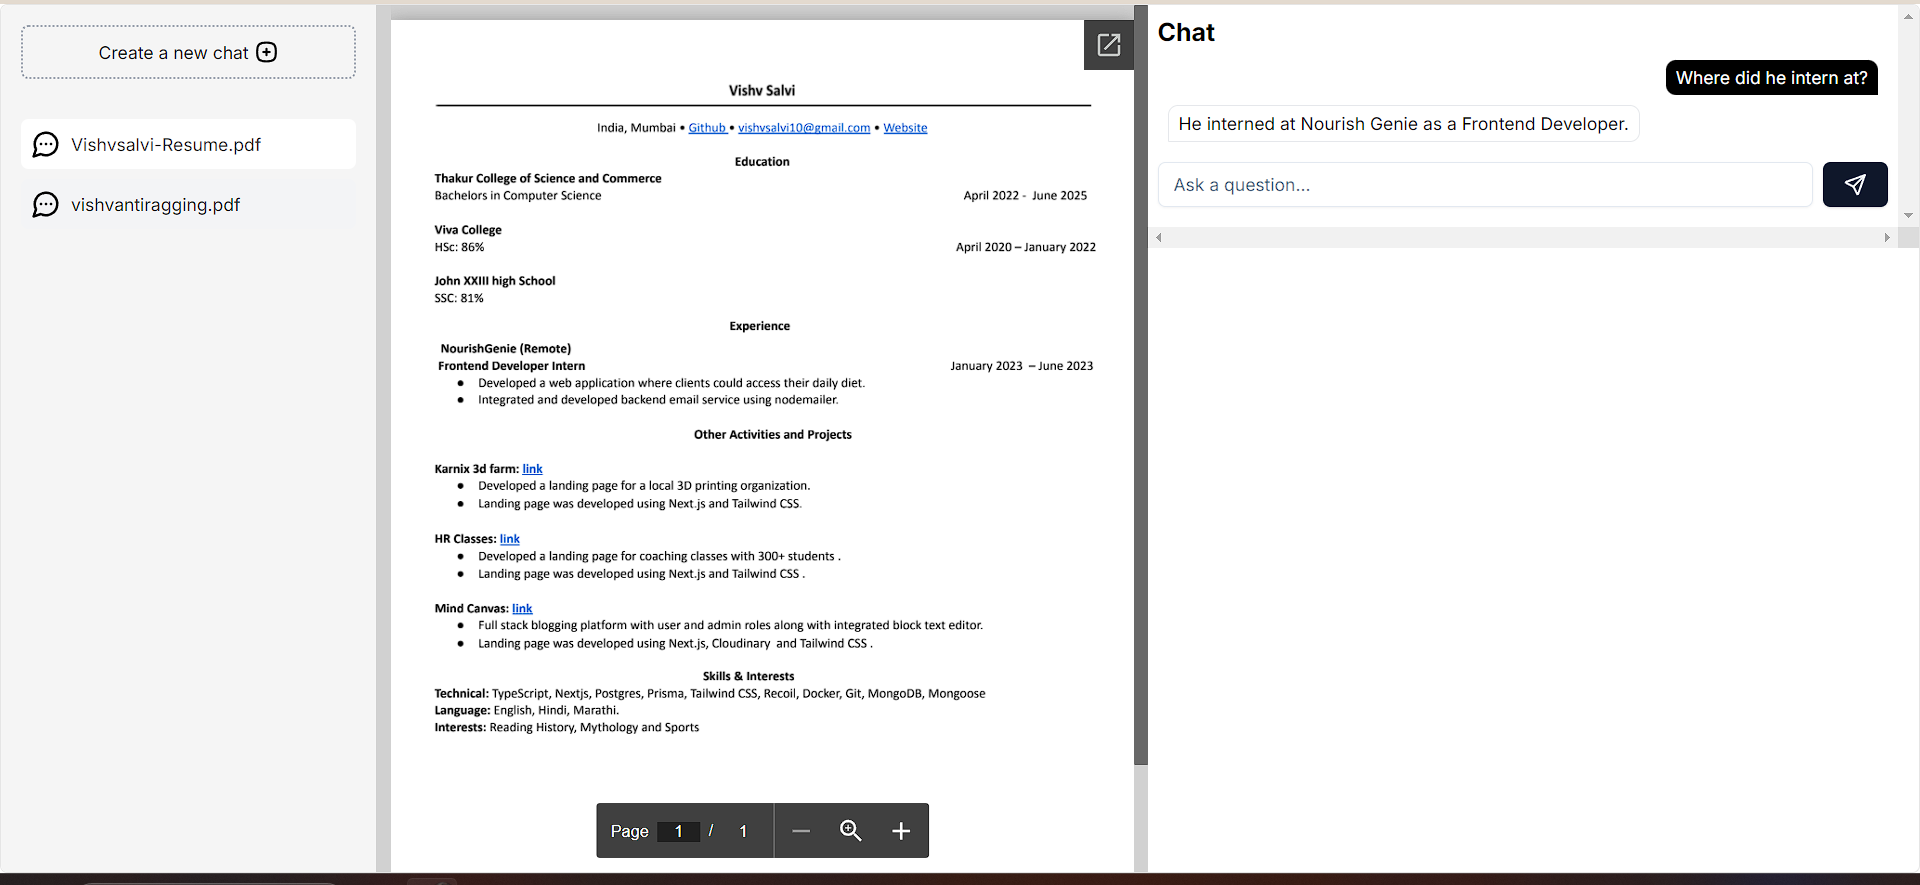
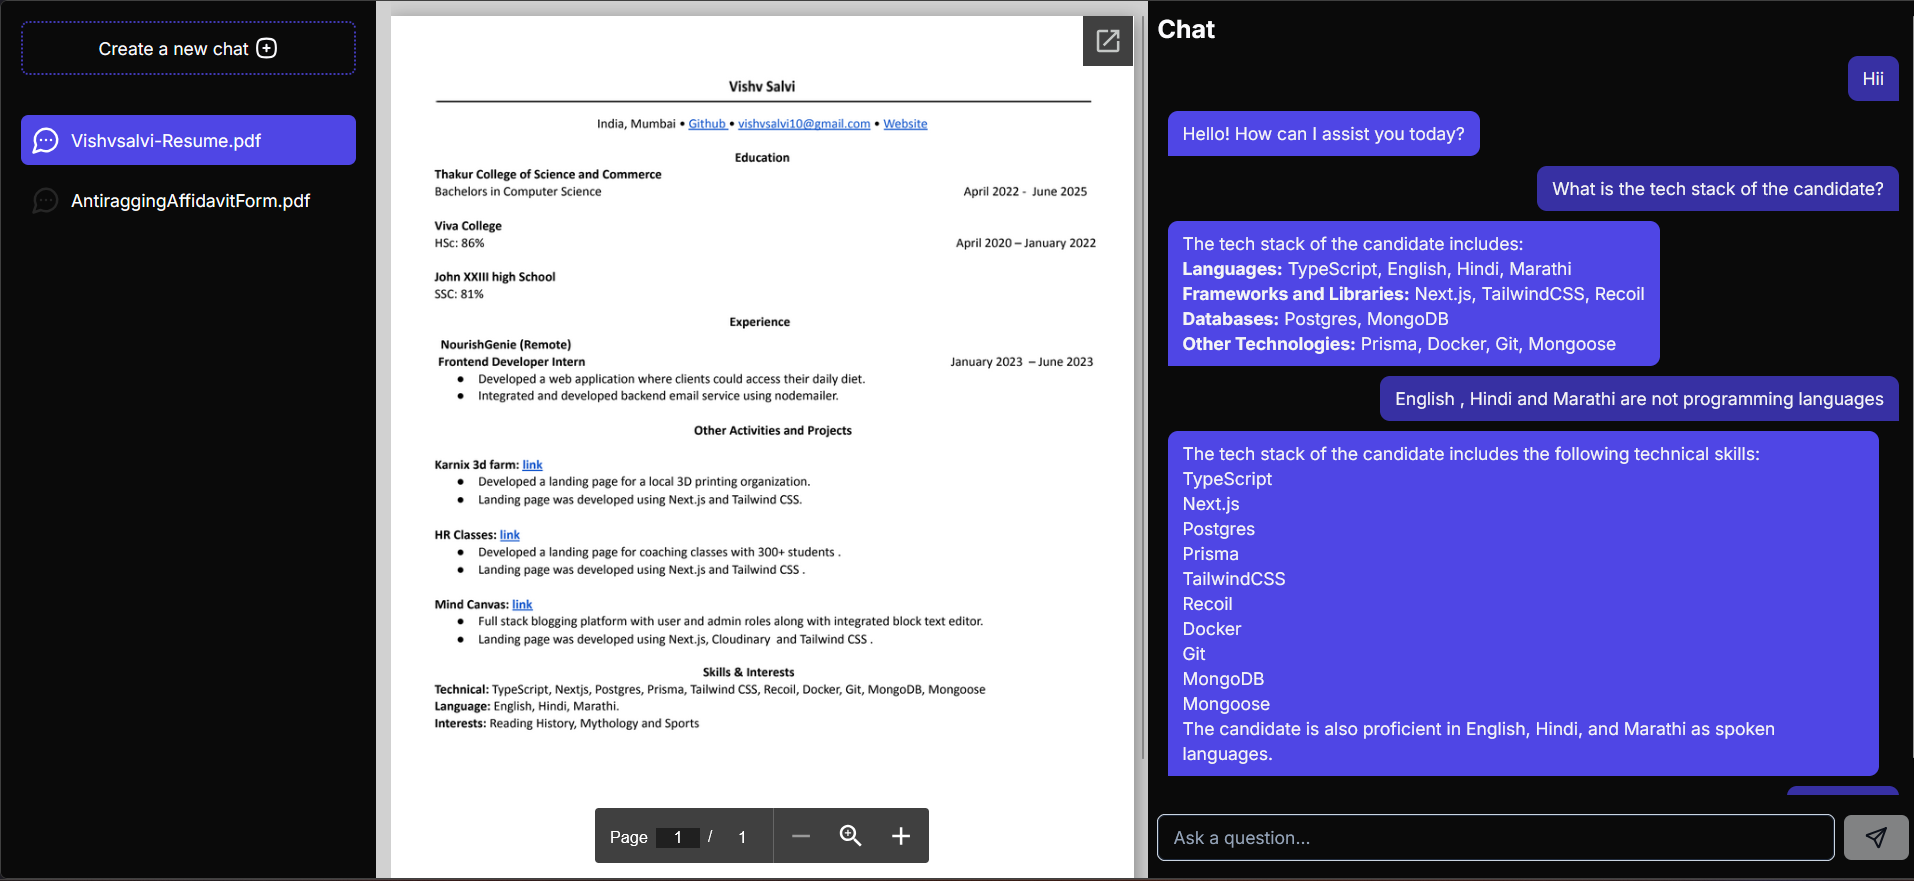
Adding resizable and fixing chat btn

diff --git a/src/app/page.tsx b/src/app/page.tsx
@@ -1,21 +1,26 @@
 import { UserButton } from "@clerk/nextjs";
 import { auth } from '@clerk/nextjs/server'
-import { Button } from "@/components/ui/button";
 import Link from "next/link";
 import FileUpload from "@/components/FileUpload";
 import {chats} from '@/lib/db/schema'
 import { db } from '@/lib/db';
 import { eq } from 'drizzle-orm';
 import { BackgroundLines } from "@/components/ui/background-lines";
+import { redirect } from 'next/navigation'
+import { navigateToChat } from '@/app/actions/handleRedirect'
 
 export default async function Home() {
   const { userId } = auth();
-
+  
   
   const getUserChatId = async () => {
     if(userId){
       const userChat = await db.select().from(chats).where(eq(chats.userId, userId));
-      return userChat[0].id
+      if(userChat.length){
+        redirect(`/chat/${userChat[0].id}`);
+      }else{
+        return alert("No chat found!")
+      }
     }
     return null;
   }
@@ -33,11 +38,17 @@ export default async function Home() {
                 </h1>
                 <UserButton afterSwitchSessionUrl="/" />
               </div>
-              <p className="max-w-[40rem] dark:text-gray-400 text-slate-800 my-4 text-sm sm:text-base">
+              <p className="max-w-[40rem] dark:text-gray-400 text-slate-800 mb-4 text-sm sm:text-base">
                 Transform your PDF documents into interactive chat experiences. Documind allows you to ask questions, get instant answers, and explore content like never before.
               </p>
               <div className="flex mb-4">
-                {userId && <Link href={`chat/${getUserChatId+""}`}><button className="px-4 py-2 rounded-md text-sm bg-indigo-600" >Go to chats</button></Link>}
+              {userId && (
+                  <form action={navigateToChat}>
+                    <button type="submit" className="px-4 py-2 rounded-md text-sm bg-indigo-600">
+                      Go to chats
+                    </button>
+                  </form>
+                )}
               </div>
               <div className="w-full flex justify-center">
                 {userId ? (
@@ -48,7 +59,7 @@ export default async function Home() {
                       <Link className="whitespace-nowrap" href="/sign-in">
                     <button className="relative inline-flex h-12 overflow-hidden rounded-md p-[1px] focus:outline-none focus:ring-2 focus:ring-slate-400 focus:ring-offset-2 focus:ring-offset-slate-50">
                       <span className="absolute inset-[-1000%] animate-[spin_2s_linear_infinite] bg-[conic-gradient(from_90deg_at_50%_50%,#E2CBFF_0%,#393BB2_50%,#E2CBFF_100%)]" />
-                      <span className="inline-flex h-full w-full cursor-pointer items-center justify-center rounded-md bg-slate-950 px-3 py-1 text-sm font-medium text-white backdrop-blur-3xl">
+                      <span className="inline-flex h-full w-full cursor-pointer items-center justify-center rounded-md bg-slate-950 px-3 py-1 text-xs md:text-sm font-medium text-white backdrop-blur-3xl">
                       Login to get started 🔑
                       </span>
                     </button>

diff --git a/src/app/chat/[chatId]/page.tsx b/src/app/chat/[chatId]/page.tsx
@@ -7,6 +7,11 @@ import { eq } from 'drizzle-orm';
 import { ChatSideBar } from "@/components/ChatSideBar";
 import { cn } from "@/lib/utils";
 import ChatComponent from '@/components/ChatComponent';
+import {
+  ResizableHandle,
+  ResizablePanel,
+  ResizablePanelGroup,
+} from "@/components/ui/resizable"
 
 type Props = {
   params: {
@@ -20,36 +25,48 @@ export default async function ChatPage({ params: { chatId } }: Props) {
   if (!userId) {
     return redirect("/sign-in");
   }
-  
+
   const userChat = await db.select().from(chats).where(eq(chats.userId, userId))
-  
+
   if (!userChat) {
     return redirect("/");
   }
 
- 
+
   const currentChat = userChat.find((chat) => chat.id === parseInt(chatId));
 
   return (
     <div
       className={cn(
-        "rounded-md flex flex-col md:flex-row dark:bg-neutral-950 w-full flex-1 mx-auto border border-neutral-200 dark:border-neutral-700 overflow-hidden",
+        "rounded-md flex flex-col md:flex-row dark:bg-neutral-950 w-full flex-1 mx-auto border border-neutral-200 dark:border-neutral-700 overflow-y-scroll",
         "h-screen"
       )}
     >
       <ChatSideBar chats={userChat} chatId={parseInt(chatId)} />
       <div className="flex-1 flex">
         {/* PDF viewer */}
-        <div className="w-1/2 h-full">
-          <iframe 
-            src={`https://docs.google.com/gview?url=${currentChat?.pdfUrl}&embedded=true`}
-            className="w-full h-full border-none"
-          />
-        </div>
-        {/* Space for chat or other content */}
-        <div className="w-1/2 h-full">
-        <ChatComponent chatId={parseInt(chatId)} />
-        </div>
+        <ResizablePanelGroup
+          direction="horizontal"
+          className="min-h-[200px] rounded-lg"
+        >
+          <ResizablePanel defaultSize={25}>
+
+            <div className="w-full h-full">
+              <iframe
+                src={`https://docs.google.com/gview?url=${currentChat?.pdfUrl}&embedded=true`}
+                className="w-full h-full border-none"
+              />
+            </div>
+          </ResizablePanel>
+          <ResizableHandle withHandle />
+          <ResizablePanel defaultSize={75}>
+            {/* Space for chat or other content */}
+            <div className="w-full h-full">
+              <ChatComponent chatId={parseInt(chatId)} />
+            </div>
+          </ResizablePanel>
+
+        </ResizablePanelGroup>
       </div>
     </div>
   )

diff --git a/src/components/ui/resizable.tsx b/src/components/ui/resizable.tsx
@@ -1,0 +1,45 @@
+"use client"
+
+import { DragHandleDots2Icon } from "@radix-ui/react-icons"
+import * as ResizablePrimitive from "react-resizable-panels"
+
+import { cn } from "@/lib/utils"
+
+const ResizablePanelGroup = ({
+  className,
+  ...props
+}: React.ComponentProps<typeof ResizablePrimitive.PanelGroup>) => (
+  <ResizablePrimitive.PanelGroup
+    className={cn(
+      "flex h-full w-full data-[panel-group-direction=vertical]:flex-col",
+      className
+    )}
+    {...props}
+  />
+)
+
+const ResizablePanel = ResizablePrimitive.Panel
+
+const ResizableHandle = ({
+  withHandle,
+  className,
+  ...props
+}: React.ComponentProps<typeof ResizablePrimitive.PanelResizeHandle> & {
+  withHandle?: boolean
+}) => (
+  <ResizablePrimitive.PanelResizeHandle
+    className={cn(
+      "relative flex w-px items-center justify-center bg-neutral-200 after:absolute after:inset-y-0 after:left-1/2 after:w-1 after:-translate-x-1/2 focus-visible:outline-none focus-visible:ring-1 focus-visible:ring-neutral-950 focus-visible:ring-offset-1 data-[panel-group-direction=vertical]:h-px data-[panel-group-direction=vertical]:w-full data-[panel-group-direction=vertical]:after:left-0 data-[panel-group-direction=vertical]:after:h-1 data-[panel-group-direction=vertical]:after:w-full data-[panel-group-direction=vertical]:after:-translate-y-1/2 data-[panel-group-direction=vertical]:after:translate-x-0 [&[data-panel-group-direction=vertical]>div]:rotate-90 dark:bg-neutral-800 dark:focus-visible:ring-neutral-300",
+      className
+    )}
+    {...props}
+  >
+    {withHandle && (
+      <div className="z-10 flex h-6 w-8 items-center justify-center rounded-sm border border-neutral-200 bg-neutral-200 dark:border-neutral-800 dark:bg-neutral-800">
+        <DragHandleDots2Icon className="h-3.5 w-3.5" />
+      </div>
+    )}
+  </ResizablePrimitive.PanelResizeHandle>
+)
+
+export { ResizablePanelGroup, ResizablePanel, ResizableHandle }

diff --git a/src/components/ChatComponent.tsx b/src/components/ChatComponent.tsx
@@ -8,12 +8,12 @@ import MessageList from './MessageList'
 import { useQuery } from '@tanstack/react-query'
 import { Message } from 'ai/react'
 import axios from 'axios'
+
 type Props = {
     chatId: number
 }
 
 const ChatComponent = ({chatId}: Props) => {
-
     const {data} = useQuery({
         queryKey: ['chat', chatId],
         queryFn: async () => {
@@ -27,19 +27,26 @@ const ChatComponent = ({chatId}: Props) => {
     body: {chatId},
     initialMessages: data || []
    })
+
    return (
-    <div className='relative max-h-screen overflow-y-scroll' >
-        <div className="sticky top-0 inset-x-0 p-2 bg-white dark:bg-neutral-950 h-fit">
+    <div className='flex flex-col h-full'>
+        <div className="flex-shrink-0 p-2 bg-white dark:bg-neutral-950">
             <h3 className='text-xl font-bold'>Chat</h3>
         </div>
+        
         {/* Message List */}
-        <MessageList messages={messages} />
+        <div className="flex-grow overflow-y-auto">
+            <MessageList messages={messages} />
+        </div>
 
-        <form className='sticky bottom-0 inset-x-0 px-2 py-4 bg-white dark:bg-neutral-950  flex gap-2' onSubmit={handleSubmit}>
-            <Input className='w-full ' value={input} onChange={handleInputChange} placeholder="Ask a question..." />
-            <Button
-            disabled={input.length === 0}
-            >
+        <form className='flex-shrink-0 p-2 bg-white dark:bg-neutral-950 flex gap-2' onSubmit={handleSubmit}>
+            <Input 
+                className='w-full' 
+                value={input} 
+                onChange={handleInputChange} 
+                placeholder="Ask a question..." 
+            />
+            <Button disabled={input.length === 0}>
                 <IconSend size={20} />
             </Button>
         </form>

diff --git a/src/components/ui/sidebar.tsx b/src/components/ui/sidebar.tsx
@@ -119,7 +119,7 @@ export const MobileSidebar = ({
     <>
       <div
         className={cn(
-          "h-10 px-4 py-4 flex flex-row md:hidden  items-center justify-between bg-neutral-100 dark:bg-neutral-800 w-full"
+          "h-10 px-4 py-4 flex flex-row md:hidden  items-center justify-between bg-neutral-100 dark:bg-neutral-950 w-full"
         )}
         {...props}
       >
@@ -140,12 +140,12 @@ export const MobileSidebar = ({
                 ease: "easeInOut",
               }}
               className={cn(
-                "fixed h-full w-full inset-0 bg-white dark:bg-neutral-900 p-10 z-[100] flex flex-col justify-between",
+                "fixed h-full w-full inset-0 bg-white dark:bg-neutral-950 p-10 z-[100] flex flex-col justify-between",
                 className
               )}
             >
               <div
-                className="absolute right-10 top-10 z-50 text-neutral-800 dark:text-neutral-200"
+                className="absolute right-2 top-2 z-50 text-neutral-800 dark:text-neutral-200"
                 onClick={() => setOpen(!open)}
               >
                 <IconX />

diff --git a/src/app/actions/handleRedirect.ts b/src/app/actions/handleRedirect.ts
@@ -1,0 +1,23 @@
+'use server'
+
+import { auth } from '@clerk/nextjs/server'
+import { db } from '@/lib/db'
+import { chats } from '@/lib/db/schema'
+import { eq } from 'drizzle-orm'
+import { redirect } from 'next/navigation'
+
+export async function navigateToChat() {
+  const { userId } = auth()
+  
+  if (userId) {
+    const userChat = await db.select().from(chats).where(eq(chats.userId, userId))
+    if (userChat.length) {
+      redirect(`/chat/${userChat[0].id}`)
+    } else {
+      alert("No chat found!")
+      return { error: "No chat found" }
+    }
+  }
+  
+  return { error: "User not authenticated" }
+}
